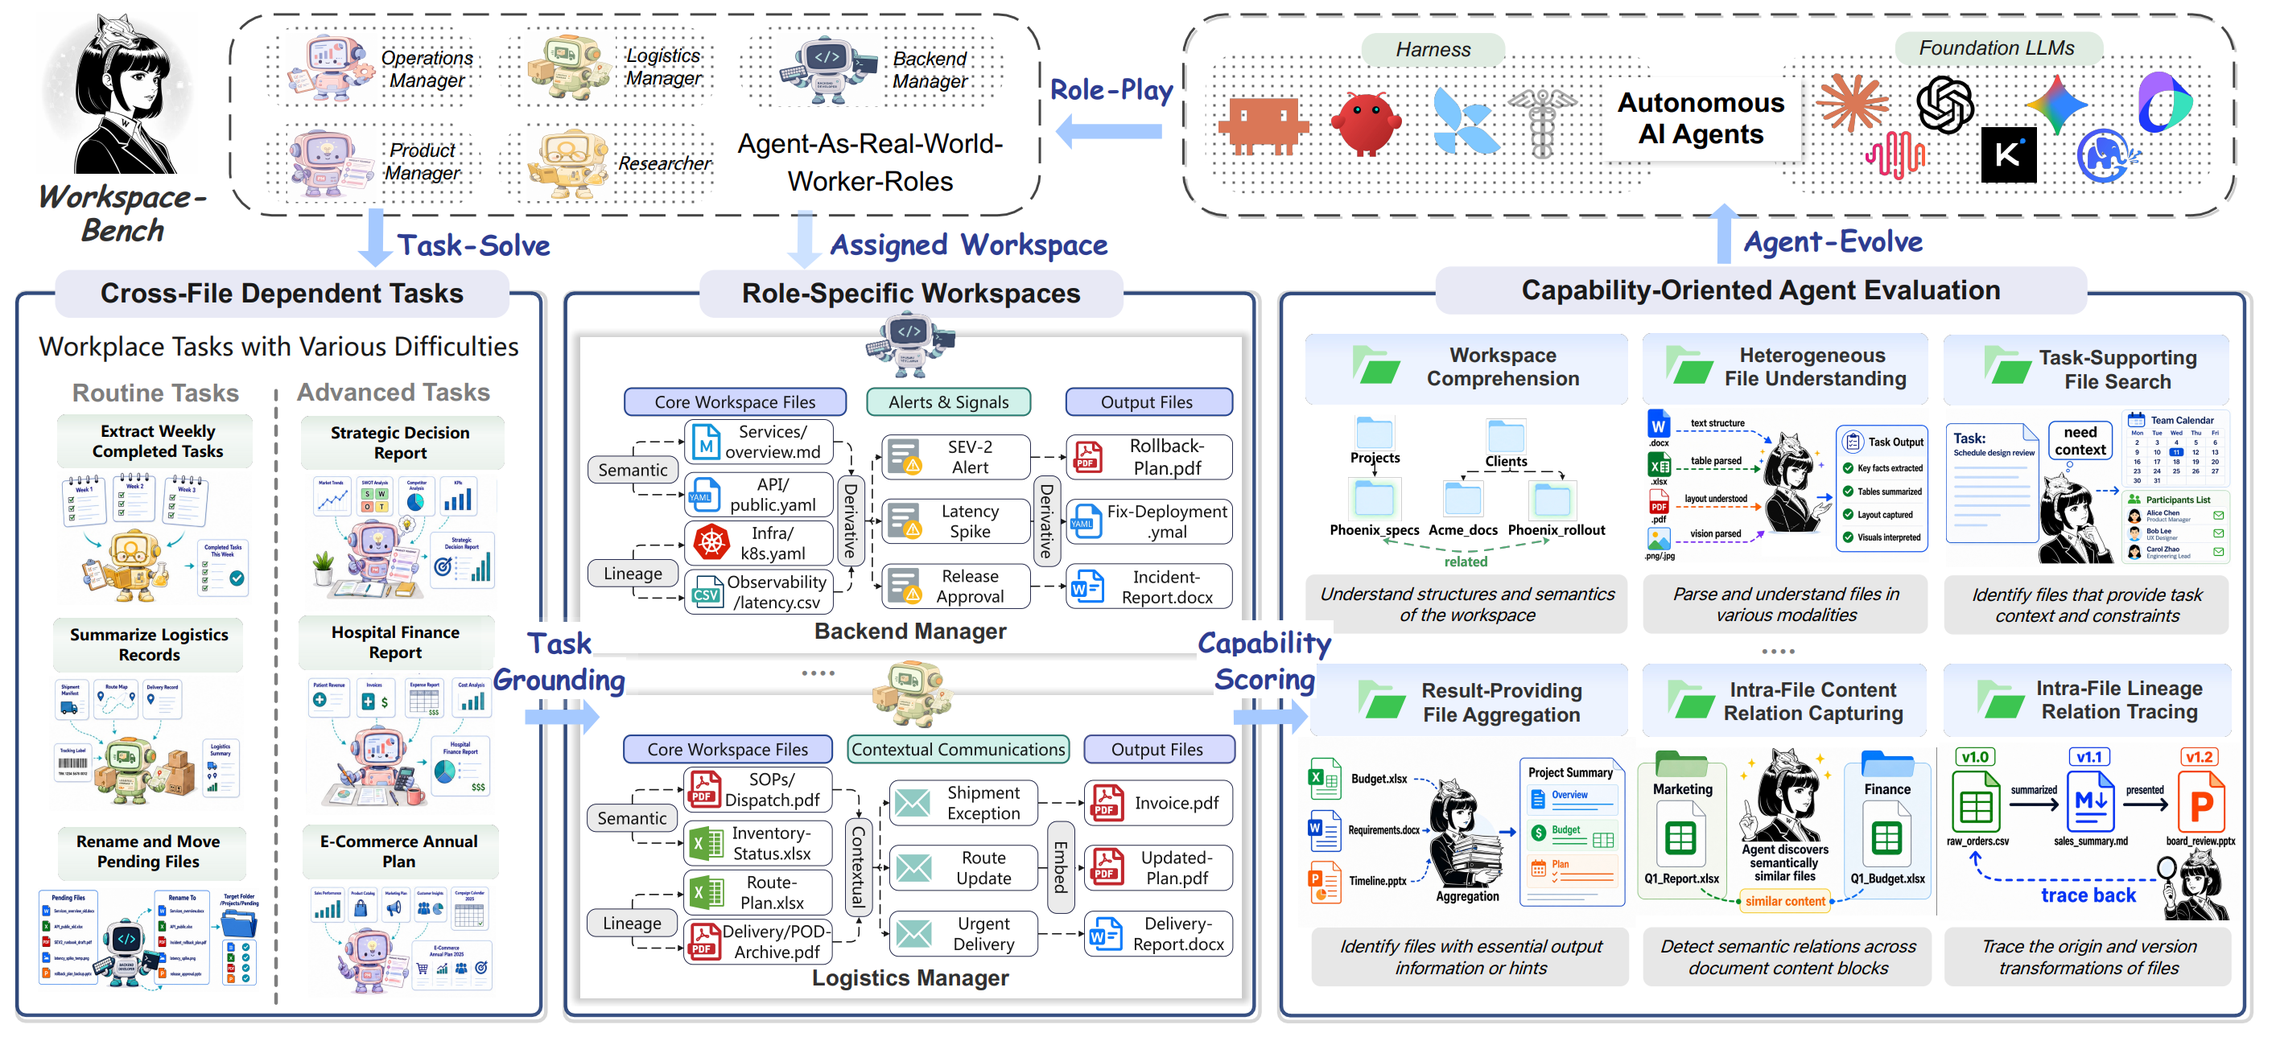
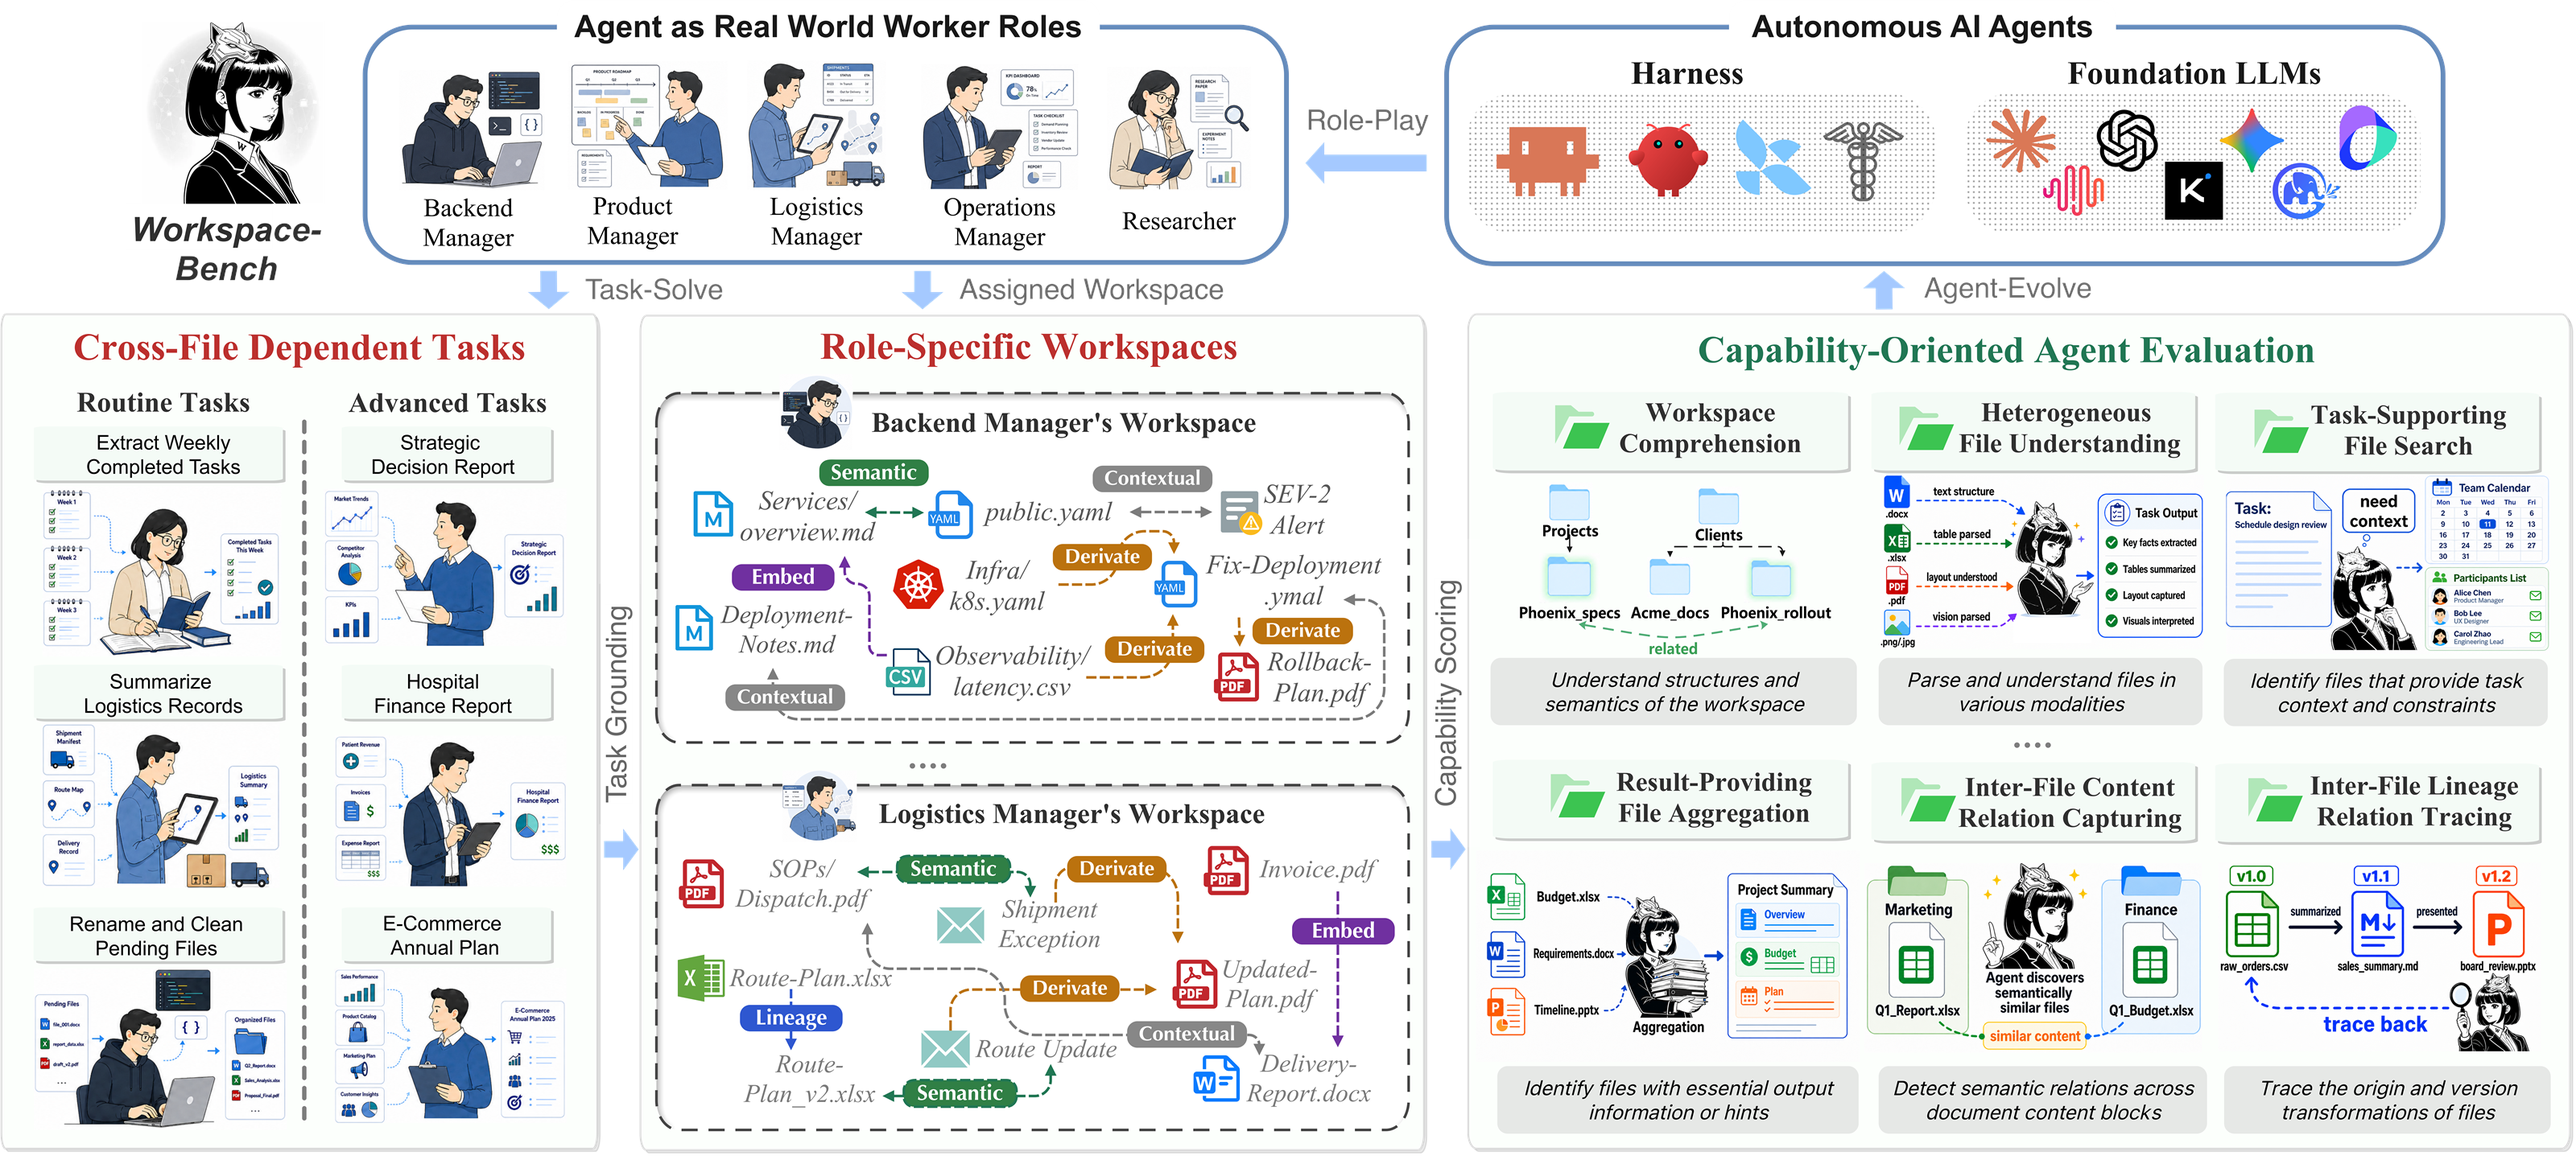
Update framework figure and dataset nav link

diff --git a/workspace-site.js b/workspace-site.js
@@ -75,6 +75,10 @@ function workspaceRenderShell() {
             </nav>
             <div class="nav-actions" aria-label="Workspace-Bench utilities">
               <button class="aa-icon-button aa-search-button" type="button" aria-label="Search site">Search</button>
+              <a class="aa-icon-button aa-dataset-button" href="https://huggingface.co/datasets/Workspace-Bench/Workspace-Bench" target="_blank" rel="noopener noreferrer" aria-label="Open Workspace-Bench dataset on HuggingFace">
+                <span class="aa-button-icon" aria-hidden="true">HF</span>
+                <span>Dataset</span>
+              </a>
               <a class="aa-icon-button" href="https://github.com/OpenDataBox/Workspace-Bench" target="_blank" rel="noopener noreferrer">GitHub</a>
               <a class="aa-icon-button" href="https://arxiv.org/abs/2605.03596" target="_blank" rel="noopener noreferrer">arXiv</a>
             </div>

diff --git a/styles/workspace.css b/styles/workspace.css
@@ -1571,6 +1571,24 @@ body {
   font-weight: 600;
 }
 
+.aa-dataset-button {
+  gap: 7px;
+}
+
+.aa-button-icon {
+  display: inline-flex;
+  align-items: center;
+  justify-content: center;
+  width: 19px;
+  height: 19px;
+  border-radius: 6px;
+  background: #ffcc4d;
+  color: #111111;
+  font-size: 0.64rem;
+  font-weight: 800;
+  line-height: 1;
+}
+
 .aa-icon-button:hover,
 .aa-toolbar-button:hover,
 .aa-search-button:hover {
